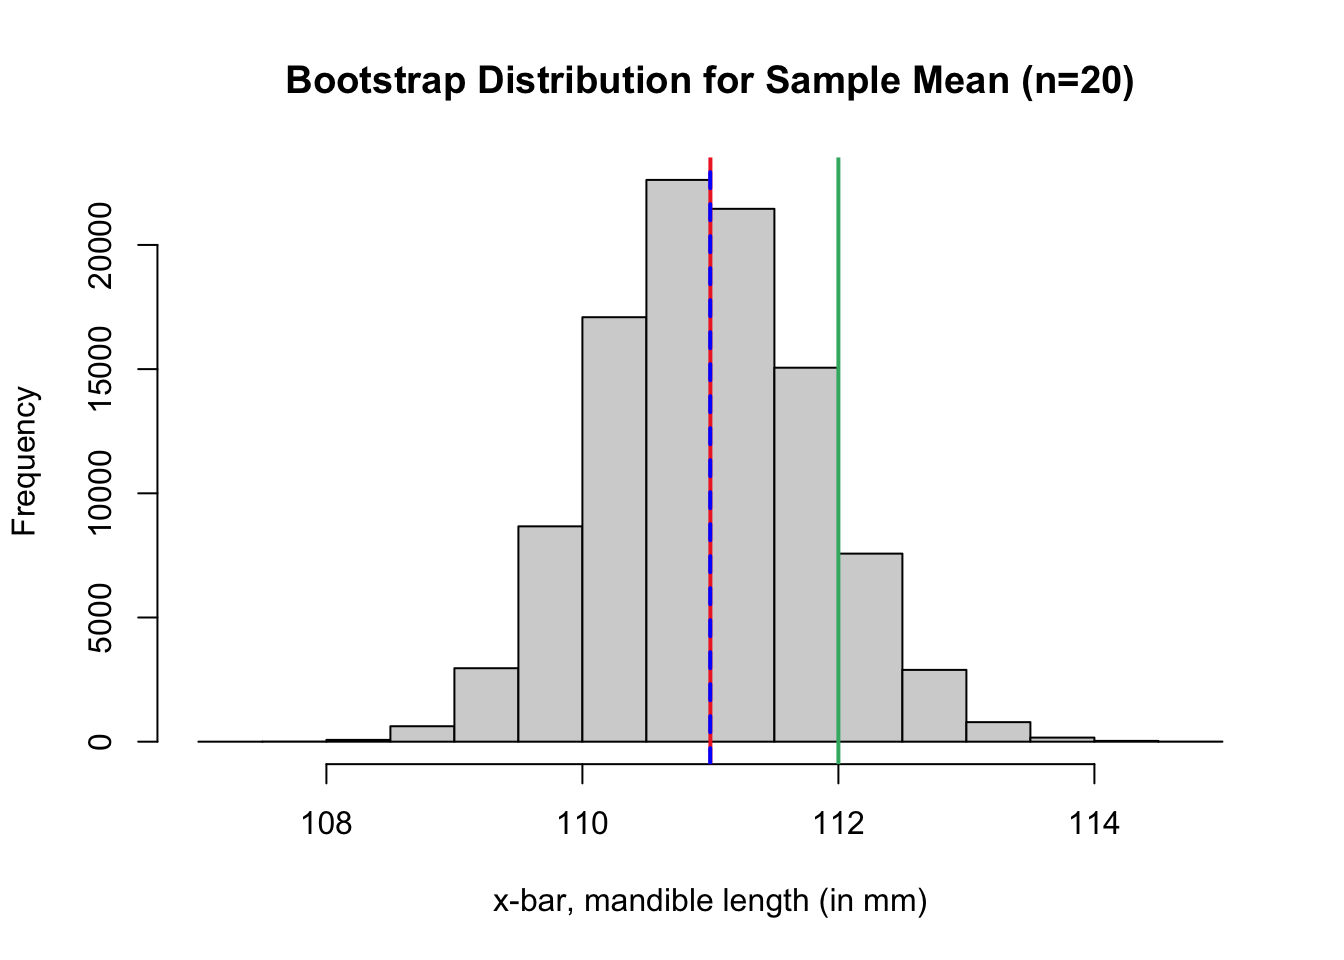
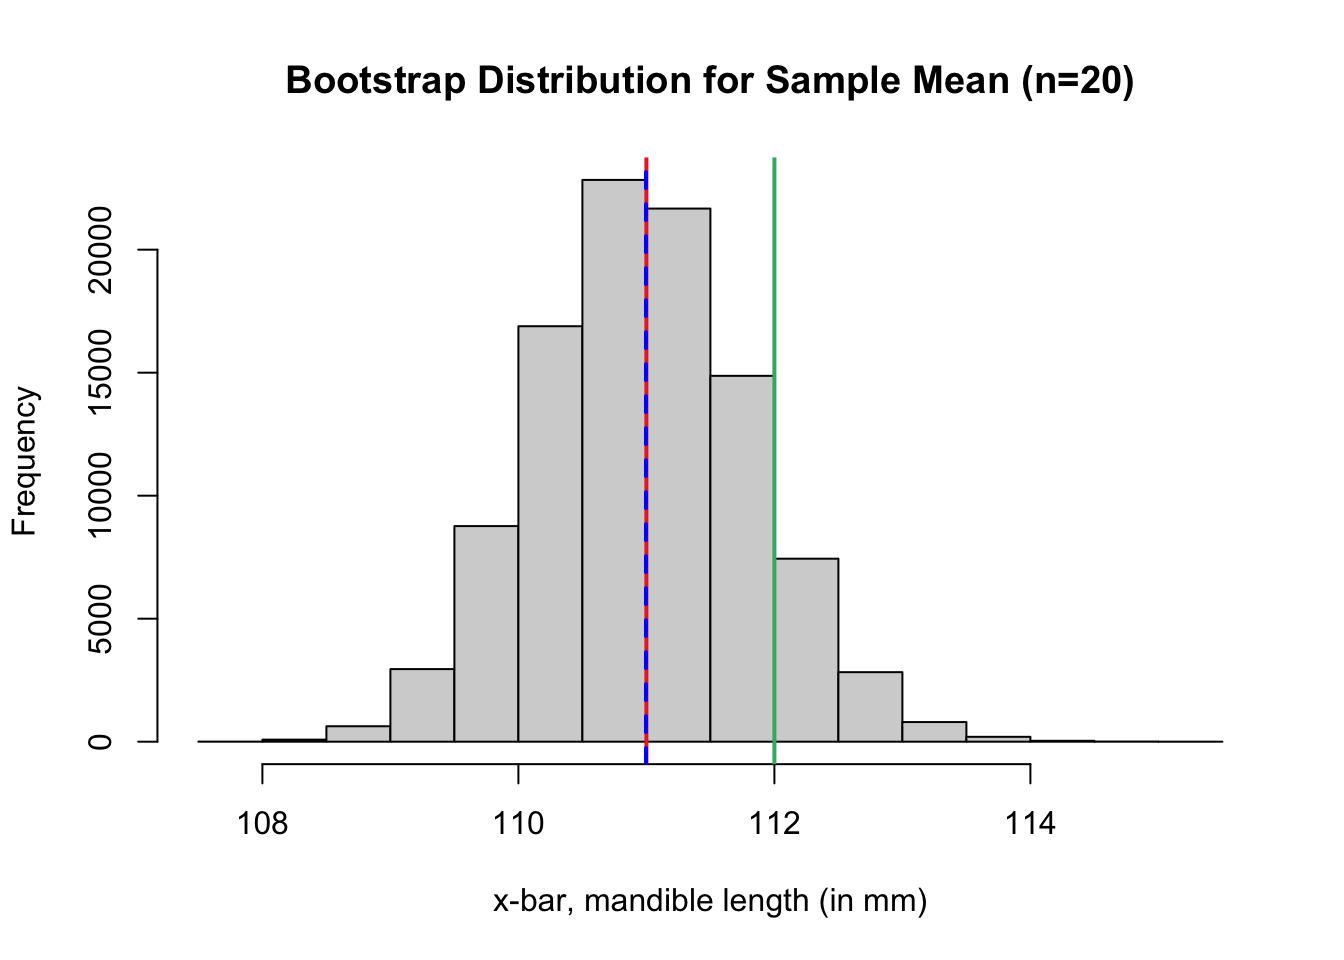
Built site for gh-pages

diff --git a/16-Bootstrap-Dist.html b/16-Bootstrap-Dist.html
@@ -811,8 +811,8 @@ pre > code.sourceCode > span > a:first-child::before { text-decoration: underlin
 <div class="sourceCode cell-code" id="cb9"><pre class="sourceCode r code-with-copy"><code class="sourceCode r"><span id="cb9-1"><a href="#cb9-1" aria-hidden="true" tabindex="-1"></a>temp.samp <span class="ot">&lt;-</span> <span class="fu">sample</span>(jaw.sample, <span class="at">size=</span><span class="dv">20</span>, <span class="at">replace =</span> <span class="cn">TRUE</span>)  <span class="co"># sample with replacement</span></span>
 <span id="cb9-2"><a href="#cb9-2" aria-hidden="true" tabindex="-1"></a>temp.samp  <span class="co"># print sample to screen</span></span></code><button title="Copy to Clipboard" class="code-copy-button"><i class="bi"></i></button></pre></div>
 <div class="cell-output cell-output-stdout">
-<pre><code> [1] 110 110 111 107 107 107 107 120 116 114 105 111 114 120 107 111 113 110 113
-[20] 111</code></pre>
+<pre><code> [1] 114 111 107 107 105 111 107 117 111 111 107 120 110 105 106 106 107 116 108
+[20] 107</code></pre>
 </div>
 </div>
 </section>
@@ -823,7 +823,7 @@ pre > code.sourceCode > span > a:first-child::before { text-decoration: underlin
 <div class="cell">
 <div class="sourceCode cell-code" id="cb11"><pre class="sourceCode r code-with-copy"><code class="sourceCode r"><span id="cb11-1"><a href="#cb11-1" aria-hidden="true" tabindex="-1"></a><span class="fu">mean</span>(temp.samp)  <span class="co"># mean of bootstrap resample</span></span></code><button title="Copy to Clipboard" class="code-copy-button"><i class="bi"></i></button></pre></div>
 <div class="cell-output cell-output-stdout">
-<pre><code>[1] 111.2</code></pre>
+<pre><code>[1] 109.65</code></pre>
 </div>
 </div>
 </section>
@@ -893,7 +893,7 @@ pre > code.sourceCode > span > a:first-child::before { text-decoration: underlin
 <h1>Measuring the Bias of Booststrap Estimates</h1>
 <hr>
 <p>Recall if <span class="math inline">\({\color{tomato}{\widehat{\theta}}}\)</span> is an <span style="color:tomato">estimator</span> for the <span style="color:mediumseagreen">parameter</span> <span class="math inline">\({\color{mediumseagreen}{\theta}}\)</span>, then we define the <span style="color:dodgerblue"><strong>bias</strong></span> of an estimator as</p>
-<p><span class="math display">\[{\large \color{dodgerblue}{ \boxed{\mbox{Bias}(\widehat{\theta}) = {\color{tomato}{\widehat{\theta}}} - {\color{mediumseagreen}{\theta}}}.}}\]</span></p>
+<p><span class="math display">\[{\large \color{dodgerblue}{ \boxed{\mbox{Bias}(\widehat{\theta}) = {\color{tomato}{E \left( \widehat{\theta} \right)}} - {\color{mediumseagreen}{\theta}}}.}}\]</span></p>
 <p><strong>In the case of bootstrapping:</strong></p>
 <ul>
 <li>We use the <span style="color:tomato">center of the bootstrap distribution</span>, <span class="math inline">\({\color{tomato}{\hat{\mu}_{\rm{boot}}}}\)</span>, as the <span style="color:tomato">bootstrap estimator</span>.</li>
@@ -1190,8 +1190,8 @@ Caution
 <div class="cell">
 <div class="sourceCode cell-code" id="cb20"><pre class="sourceCode r code-with-copy"><code class="sourceCode r"><span id="cb20-1"><a href="#cb20-1" aria-hidden="true" tabindex="-1"></a><span class="co"># compare bootstrap dist to normal dist</span></span>
 <span id="cb20-2"><a href="#cb20-2" aria-hidden="true" tabindex="-1"></a><span class="co"># run to create a qq-plot</span></span>
-<span id="cb20-3"><a href="#cb20-3" aria-hidden="true" tabindex="-1"></a><span class="fu">qqnorm</span>(boot.dist)</span>
-<span id="cb20-4"><a href="#cb20-4" aria-hidden="true" tabindex="-1"></a><span class="fu">qqline</span>(boot.dist)</span></code><button title="Copy to Clipboard" class="code-copy-button"><i class="bi"></i></button></pre></div>
+<span id="cb20-3"><a href="#cb20-3" aria-hidden="true" tabindex="-1"></a><span class="fu">qqnorm</span>(boot.arsenic)</span>
+<span id="cb20-4"><a href="#cb20-4" aria-hidden="true" tabindex="-1"></a><span class="fu">qqline</span>(boot.arsenic)</span></code><button title="Copy to Clipboard" class="code-copy-button"><i class="bi"></i></button></pre></div>
 </div>
 <p><br><br>
 <br></p>
